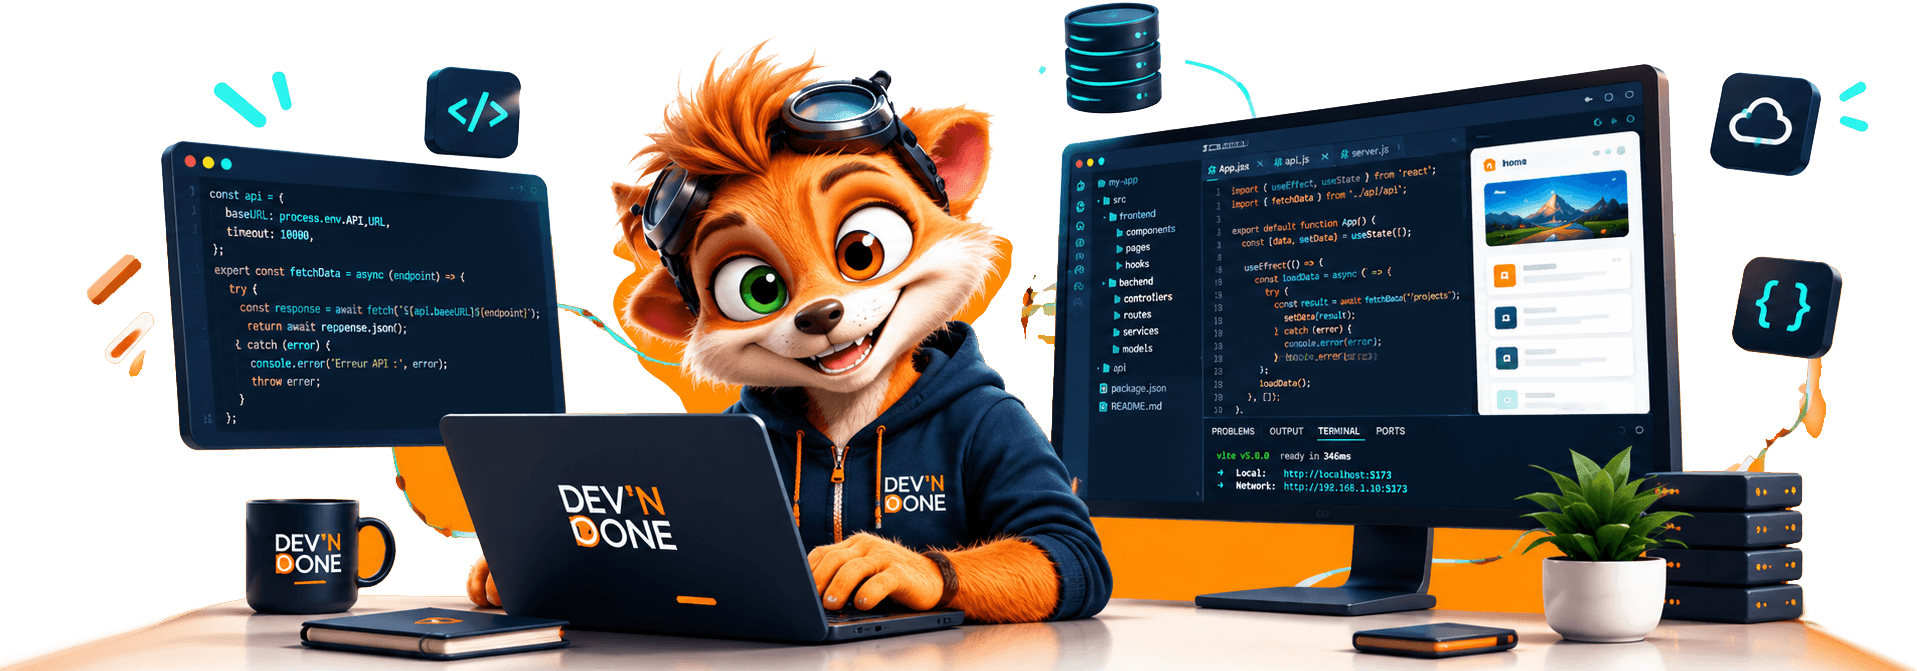
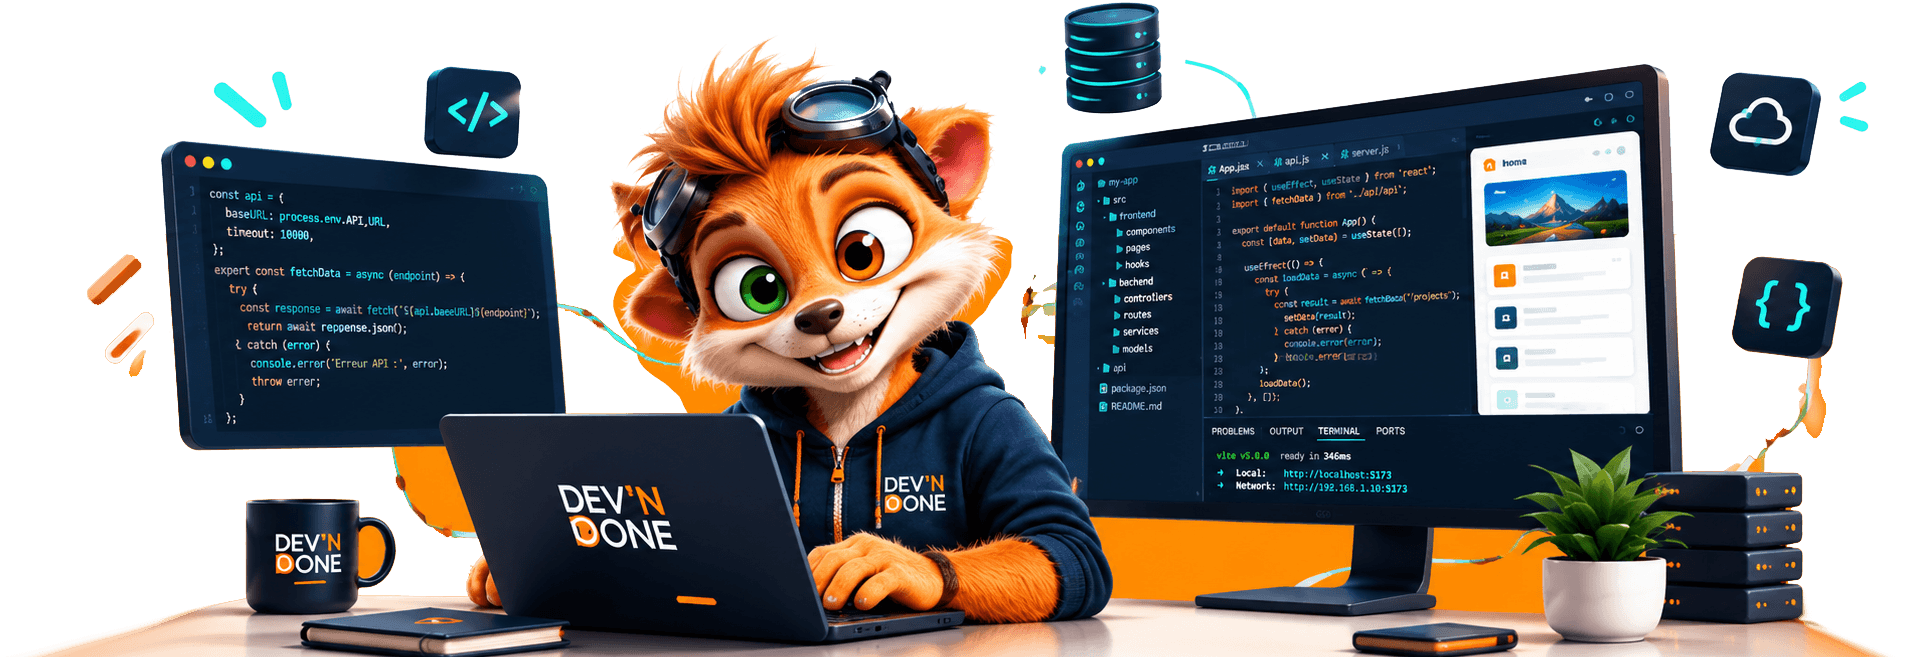
Bandeau Full Stack : illustration rognée de 14 px en bas et décalée vers la gauche

diff --git a/src/lib/components/sections/ExpertiseCards.svelte b/src/lib/components/sections/ExpertiseCards.svelte
@@ -236,7 +236,7 @@
 		}
 		.extra__visual {
 			position: absolute;
-			right: 0;
+			right: var(--space-5);
 			bottom: 0;
 			width: auto;
 			height: calc(100% + 3.25rem);
